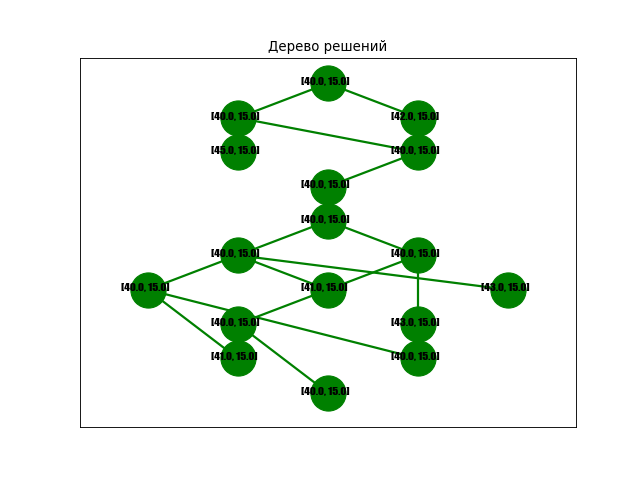
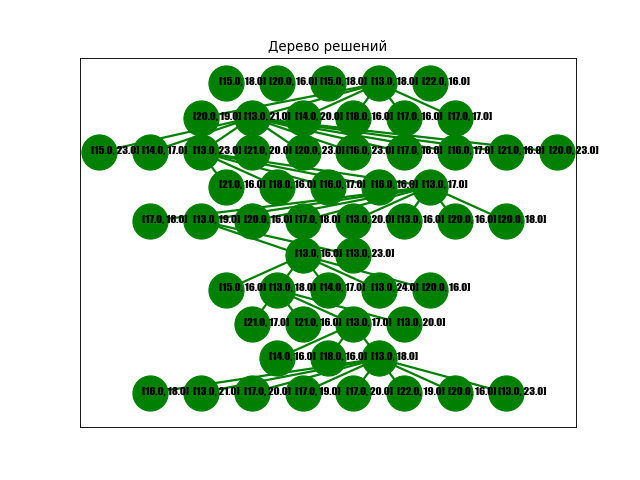
Fix fix fix and fix again!!! COMPLETE!

Changed region(s): [[0.125, 0.125, 0.9375, 0.875]]

diff --git a/UI.py b/UI.py
@@ -32,7 +32,7 @@ def set_matrix(set_random=False):
             time_limit = float(str(time_limit_widget.get()))  # ограничение по времени
         except:
             messagebox.showerror(title="Ошибка ввода", 
-                message="Значения строк и столбцов должны иметь целые значения.\nЗначение ограничения по времени должно быть вещественным  положительным числом. Или нулем, если вы хотите подобрать время автоматически.")
+                message="Значения строк и столбцов должны иметь целые значения.\nЗначение ограничения по времени должно быть вещественным положительным числом. Или нулем, если вы хотите подобрать время автоматически.")
             return
         if matr_col > 1 and matr_col <= 10 and matr_row > 1 and matr_row <= 10:
             break
@@ -152,7 +152,7 @@ def matrix_transformation(reload=False, local_time_limit=0, output=True):
                 temp_T_matrix = tk.Label(frame_T_second_rebase, width=3, text=T2[i][j]); temp_T_matrix.place(x=25*j, y=20+20*i)
                 C_second_rebase_output[i].append(temp_C_matrix); T_second_rebase_output[i].append(temp_T_matrix)
 
-def time_recalculation():
+def time_recalculation(time_limit=0):
     local_time_limit = time_limit# = int(str(time_limit_widget.get()))  # ограничение по времени
     global new_time_limit_widget
     loading_label = ttk.Label(root, text="Идет перерасчет ограничения по времени...")
@@ -189,35 +189,42 @@ def time_recalculation():
 
 
 def decision_tree_graph():
-    """Выводит график дерева решений в окно приложения, а так же узлы решения для задач""" 
+    """Выводит график дерева решений в окно приложения, а так же узлы решения для задач"""
     if frame_T_second_rebase.winfo_exists() != 1:
         messagebox.showerror(title="Ошибка!", message="Сначала задайте матрицы")
         return
     try:
-        dec_tree, nodes = decision_tree(C2, T2)
-        graph_dec_tree(dec_tree)
-        # Вывод графика
-        global dec_tree_graph
-        img = PhotoImage(file="decision_tree.png")
-        dec_tree_graph = Label(root, image=img)
-        dec_tree_graph.image_ref = img
-        dec_tree_graph.place(x=770, y=0)
-        # Узлы решений
-        global frame_nodes
-        frame_nodes = tk.Frame(root, width=50+20*len(nodes), height=40)#, background="#b22222")
-        frame_nodes.place(x=850, y=500)
-        ttk.Label(frame_nodes, text="Задачи").place(x=0, y=0)
-        ttk.Label(frame_nodes, text="Узлы").place(x=0, y=20)
-        for i in range(len(nodes)):
-            ttk.Label(frame_nodes, text=i+1, width=3).place(x=50+20*i, y=0)
-            ttk.Label(frame_nodes, text=nodes[i], width=3).place(x=50+20*i, y=20)
+        local_time_limit = int(str(time_limit_widget.get()))  # ограничение по времени
+    except:
+        messagebox.showerror(title="Ошибка ввода", 
+                message="Значение ограничения по времени должно быть вещественным положительным числом. Или нулем, если вы хотите подобрать время автоматически.")
         return
+    matrix_transformation(reload=False, local_time_limit=local_time_limit, output=True)     # Нужно лишь в случае изменения ограничения по времени
+    try:
+        dec_tree, nodes = decision_tree(C2, T2)
+        graph_dec_tree(dec_tree, local_time_limit)
     except:
         messagebox.showwarning(title="Ошибка построения", 
                     message="Текущее ограничение по времени слишком мало и будет подобрано автоматически.")
-    global thread_time_recalculate
-    thread_time_recalculate = Thread(target=time_recalculation)
-    thread_time_recalculate.start()
+        global thread_time_recalculate
+        thread_time_recalculate = Thread(target=time_recalculation, args=(local_time_limit,))
+        thread_time_recalculate.start()
+        return
+    # Вывод графика
+    global dec_tree_graph
+    img = PhotoImage(file="decision_tree.png")
+    dec_tree_graph = Label(root, image=img)
+    dec_tree_graph.image_ref = img
+    dec_tree_graph.place(x=770, y=0)
+    # Узлы решений
+    global frame_nodes
+    frame_nodes = tk.Frame(root, width=50+20*len(nodes), height=40)#, background="#b22222")
+    frame_nodes.place(x=850, y=500)
+    ttk.Label(frame_nodes, text="Задачи").place(x=0, y=0)
+    ttk.Label(frame_nodes, text="Узлы").place(x=0, y=20)
+    for i in range(len(nodes)):
+        ttk.Label(frame_nodes, text=i+1, width=3).place(x=50+20*i, y=0)
+        ttk.Label(frame_nodes, text=nodes[i], width=3).place(x=50+20*i, y=20)
 
 
 
